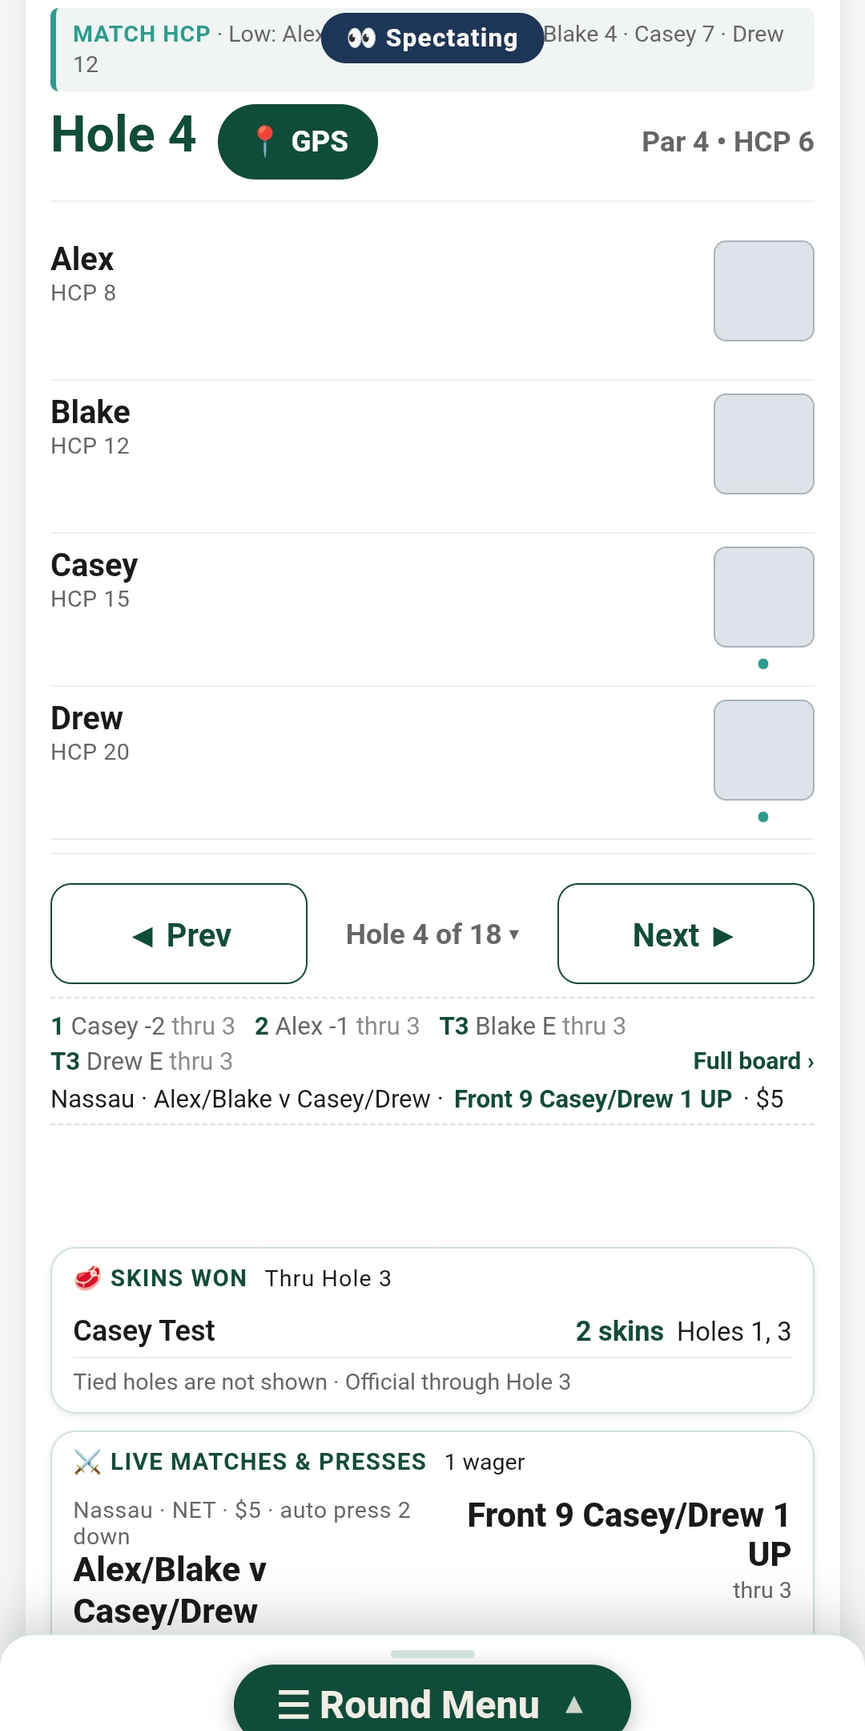
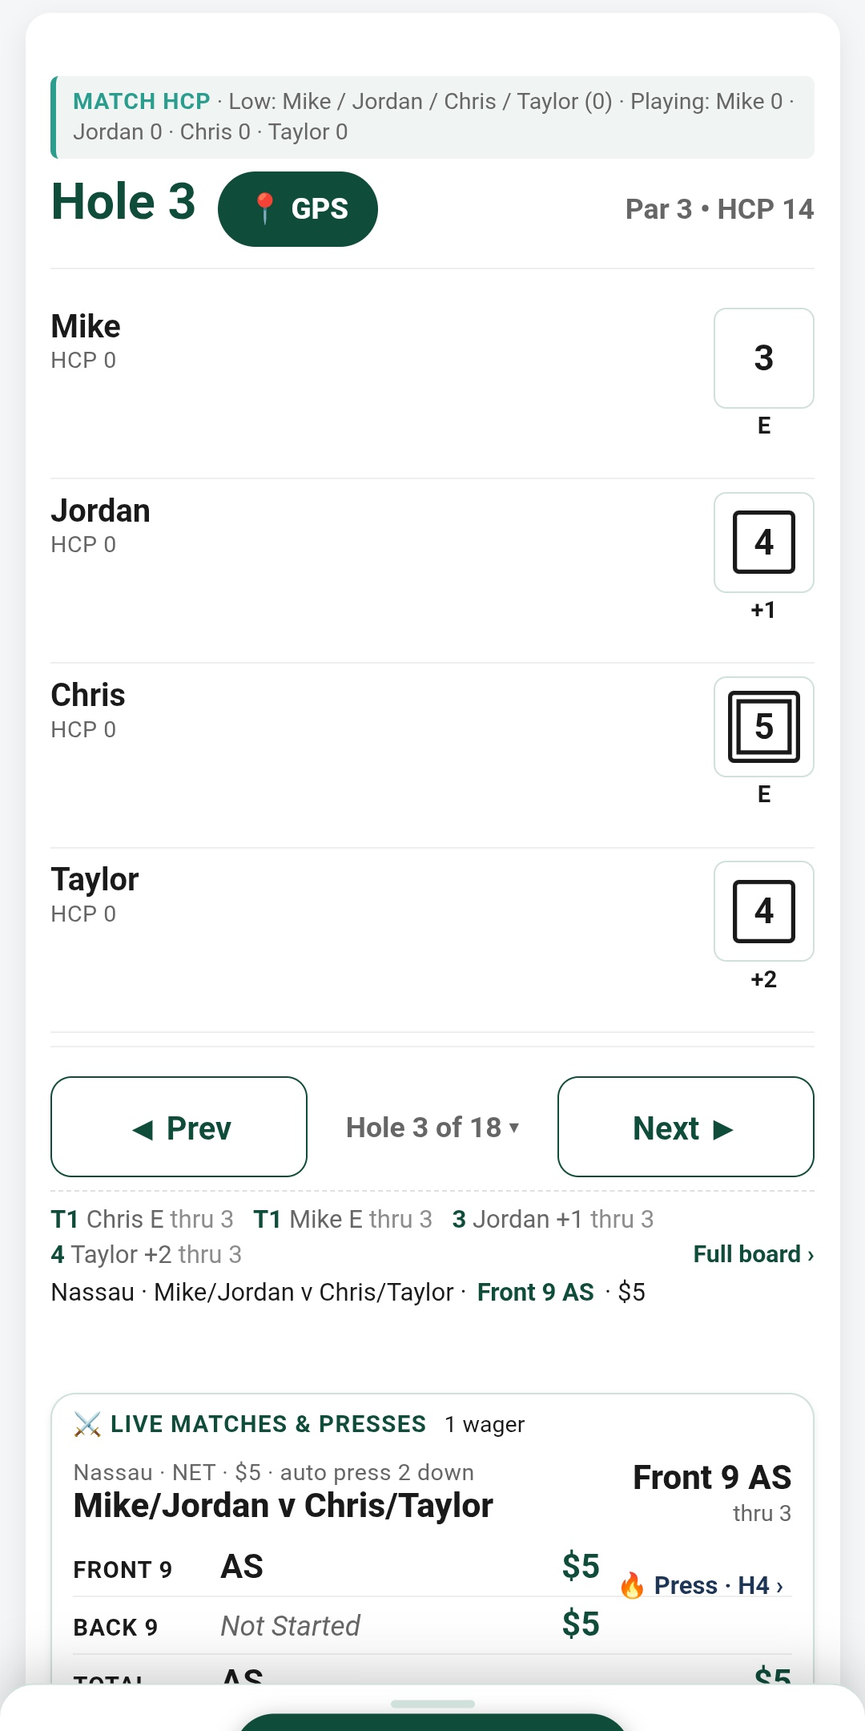
Job 011: legal pages deploy-ready, screenshots without test data, players-first loop measured
- Deletion page: "We'll reply within 7 days and delete within 30 days." Privacy keeps
  "an important change is shown in the app". Deploy-ready copies, dated 17 October 2026,
  in docs/legal/deploy/ (privacy.html, delete-account.html). Not deployed.
- Screenshots 03, 04, 05, 08 reshot from screenshot round LX83Z6 (no demo/test round),
  1080x2160 JPEG. LX83Z6 then deleted in-app; the app answers "No round with the code".
- Players-first loop reproduced in desktop Chrome with no Capacitor
  (docs/repro/players-first-loop.js): it needs a stale 1-golfer stored copy AND live data
  slower than the first 150 ms tick. Written up for the iOS session, not fixed (shared code).

Docs and assets only; no app code, no cache bump.

(cherry picked from commit dcf30ce82ed94d24f578836525e57e4b52626caf)

diff --git a/docs/legal/deploy/privacy.html b/docs/legal/deploy/privacy.html
@@ -1,0 +1,104 @@
+<!DOCTYPE html>
+<html lang="en">
+<head>
+<meta charset="UTF-8">
+<meta name="viewport" content="width=device-width, initial-scale=1.0">
+<title>Privacy Policy — HardPan</title>
+<style>
+    :root { --forest: #0E2B1F; --lime: #93C01F; --cream: #F6F4EC; --ink: #1a1a1a; --muted: #5a6560; --line: #d8d5c8; }
+    * { box-sizing: border-box; }
+    body { font-family: -apple-system, BlinkMacSystemFont, "Segoe UI", Roboto, sans-serif;
+        background: var(--cream); color: var(--ink); margin: 0; padding: 24px 16px 64px 16px; line-height: 1.6; }
+    .wrap { max-width: 720px; margin: 0 auto; }
+    h1 { font-size: 1.45rem; color: var(--forest); margin: 28px 0 6px 0; }
+    h2 { font-size: 1.05rem; color: var(--forest); margin: 30px 0 8px 0; padding-bottom: 6px; border-bottom: 1px solid var(--line); }
+    .updated { color: var(--muted); font-size: 0.85rem; margin-bottom: 8px; }
+    p, li { font-size: 0.95rem; }
+    ul { padding-left: 20px; }
+    li { margin-bottom: 6px; }
+    .callout { background: #fff; border-left: 4px solid var(--lime); border-radius: 6px; padding: 14px 16px; margin: 18px 0; }
+    table { width: 100%; border-collapse: collapse; margin: 14px 0; font-size: 0.9rem; }
+    th { background: var(--forest); color: var(--cream); text-align: left; padding: 8px 10px; }
+    td { border-bottom: 1px solid var(--line); padding: 8px 10px; vertical-align: top; background: #fff; }
+    a { color: var(--forest); }
+    footer { margin-top: 40px; padding-top: 16px; border-top: 1px solid var(--line); text-align: center; color: var(--muted); font-size: 0.85rem; }
+</style>
+</head>
+<body>
+<div class="wrap">
+<h1>HardPan Privacy Policy</h1>
+<p class="updated">Last updated: 17 October 2026 · Rattle Golf LLC</p>
+
+<div class="callout">
+<p><strong>The short version.</strong> HardPan keeps your group's golf: names, scores and the games you play. It makes you an anonymous account so the rounds you start stay yours. An email address is asked for only if you choose to sign in. Your GPS position is used on your phone to measure yardages and is not sent to us, with one exception you control (setting a green, below). No ads, no analytics, no tracking, and nothing is sold.</p>
+</div>
+
+<h2>Who we are</h2>
+<p>HardPan is made by Rattle Golf LLC. Questions or requests: <a href="mailto:support@rattlegolf.com">support@rattlegolf.com</a>.</p>
+
+<h2>What we collect, and why</h2>
+<table>
+<tr><th>What</th><th>When</th><th>Why</th></tr>
+<tr><td>An anonymous account id</td><td>Automatically, the first time you open the app or site</td><td>So the rounds and groups you set up belong to you, and to limit how many course lookups one account can make in a day. It has no name or email on it.</td></tr>
+<tr><td>Your email address</td><td>Only if you choose to sign in with an email link (on iPhone you may also use Sign in with Apple or Google)</td><td>So you can keep your rounds and groups across devices. Firebase (Google) sends the sign-in email for us.</td></tr>
+<tr><td>Golfers' names, handicaps, scores and games</td><td>When you or your group type them in</td><td>To run the scorecard, leaderboard and games for everyone with the round's code.</td></tr>
+<tr><td>A green's position</td><td>Only when you tap "set the green here" on the GPS screen</td><td>To fix that hole's green for your round. The saved point carries no account id and no name.</td></tr>
+<tr><td>Course searches</td><td>When you search for a course to play</td><td>Sent through our server to our course-data provider to answer the search. Not kept with your account.</td></tr>
+</table>
+
+<h2>Your location</h2>
+<ul>
+<li>HardPan asks for location only to show yardages on the GPS screen, and only while the app is open. It never asks for background location.</li>
+<li>Your position stays on your phone. It turns into yardages on the screen and is not sent to us, stored in your account, or put in a link.</li>
+<li>The one exception is "set the green here": that saves the spot you are standing on as the green, without your name or account.</li>
+<li>"Near you" (nearby courses) is worked out on your phone.</li>
+<li>You can switch location off at any time in your phone's settings. Scores, games and the scorecard work without it.</li>
+</ul>
+
+<h2>Services that help run HardPan</h2>
+<p>These receive only what they need to do their job, and none of them receive anything to track you:</p>
+<ul>
+<li><strong>Google Firebase</strong> (Authentication, Realtime Database, Cloud Functions): your account, round data and course searches. Google processes it for us as a service provider.</li>
+<li><strong>GolfAPI</strong> (golfapi.io), through our server: the course name you search for and course ids. Never your position or name.</li>
+<li><strong>GolfCourseAPI</strong> (golfcourseapi.com), through our Cloudflare Worker: the course name or town you type, to find a published scorecard. Never your position or name.</li>
+<li><strong>Esri (ArcGIS)</strong> and the <strong>U.S. Geological Survey</strong> (USGS): the satellite map on the GPS screen. Your phone asks them for map tiles of the course, and they see that request and your internet address. USGS also gives heights for points on the course (for "plays like").</li>
+<li><strong>U.S. National Weather Service</strong> (api.weather.gov): the wind. Your phone sends the course's location, not yours, and the service sees your internet address.</li>
+<li><strong>Apple</strong>, on iPhone only: Sign in with Apple if you use it, and push notifications if you allow them (your device's notification token and your notification choices are stored so a round can notify you).</li>
+</ul>
+
+<h2>What we don't do</h2>
+<ul>
+<li>No ads, and no advertising or analytics SDKs.</li>
+<li>No selling or renting of your information, and no sharing for anyone's advertising.</li>
+<li>No purchases in the app today. HardPan does not take, hold or move money; the "who owes whom" summary is information for your group, who settle up between themselves.</li>
+</ul>
+
+<h2>Kept on your device only</h2>
+<p>Dark mode, your last roster, recent rounds and courses, which golfer is you, downloaded course maps and any scores waiting for a signal are kept on your phone (or in your browser) and are not sent to us, except that waiting scores are sent to the round once you're back online.</p>
+
+<h2>Who can see a round</h2>
+<p>A round is shared by its game code. Anyone with the code can watch it, and the people you give a scorekeeper link can score it. There is no public list of rounds and no public profile.</p>
+
+<h2>How long we keep it</h2>
+<p>Rounds are kept so your group can look back at them, until the organizer wipes the round or asks us to. Your account is kept until you delete it.</p>
+
+<h2>Deleting your data</h2>
+<ul>
+<li><strong>Your account:</strong> in the app, open Account and tap Delete account. That deletes your sign-in (email and account id) and your saved groups straight away. See <a href="delete-account.html">delete-account</a> for exactly what is deleted and what stays.</li>
+<li><strong>A round:</strong> the organizer can use End &amp; Wipe Round.</li>
+<li><strong>Anything else, or if you can't open the app:</strong> email <a href="mailto:support@rattlegolf.com">support@rattlegolf.com</a> from the address you signed in with (or with the round code).</li>
+</ul>
+
+<h2>Children</h2>
+<p>HardPan is not directed at children under 13 and does not knowingly collect information from them. If you think a child's information is in HardPan, email us and we will delete it.</p>
+
+<h2>Security</h2>
+<p>Everything is sent over encrypted connections (HTTPS). Database rules let only the right people change a round or an account.</p>
+
+<h2>Changes</h2>
+<p>If this policy changes, the date at the top changes, and an important change is shown in the app.</p>
+
+<footer>Rattle Golf LLC · <a href="mailto:support@rattlegolf.com">support@rattlegolf.com</a></footer>
+</div>
+</body>
+</html>

diff --git a/docs/legal/deploy/delete-account.html b/docs/legal/deploy/delete-account.html
@@ -1,0 +1,59 @@
+<!DOCTYPE html>
+<html lang="en">
+<head>
+<meta charset="UTF-8">
+<meta name="viewport" content="width=device-width, initial-scale=1.0">
+<title>Delete your HardPan account</title>
+<style>
+    :root { --forest: #0E2B1F; --lime: #93C01F; --cream: #F6F4EC; --ink: #1a1a1a; --muted: #5a6560; --line: #d8d5c8; }
+    * { box-sizing: border-box; }
+    body { font-family: -apple-system, BlinkMacSystemFont, "Segoe UI", Roboto, sans-serif;
+        background: var(--cream); color: var(--ink); margin: 0; padding: 24px 16px 64px 16px; line-height: 1.6; }
+    .wrap { max-width: 720px; margin: 0 auto; }
+    h1 { font-size: 1.45rem; color: var(--forest); margin: 28px 0 6px 0; }
+    h2 { font-size: 1.05rem; color: var(--forest); margin: 30px 0 8px 0; padding-bottom: 6px; border-bottom: 1px solid var(--line); }
+    p, li { font-size: 0.95rem; }
+    ol, ul { padding-left: 20px; }
+    li { margin-bottom: 6px; }
+    .callout { background: #fff; border-left: 4px solid var(--lime); border-radius: 6px; padding: 14px 16px; margin: 18px 0; }
+    a { color: var(--forest); }
+    footer { margin-top: 40px; padding-top: 16px; border-top: 1px solid var(--line); text-align: center; color: var(--muted); font-size: 0.85rem; }
+</style>
+</head>
+<body>
+<div class="wrap">
+<h1>Delete your HardPan account</h1>
+<p>HardPan is made by Rattle Golf LLC. You can delete your account in the app, or ask us by email.</p>
+
+<h2>In the app (immediate)</h2>
+<ol>
+<li>Open HardPan and tap <strong>Sign in</strong> (or <strong>Account</strong>) on the home screen.</li>
+<li>Tap <strong>Delete account</strong>. It appears once you are signed in.</li>
+<li>Read the warning and tap <strong>Delete account</strong> again to confirm.</li>
+</ol>
+<p>You need a signal: if a step can't reach our servers, nothing is deleted and the app asks you to try again.</p>
+
+<h2>By email</h2>
+<p>If you can't open the app, email <a href="mailto:support@rattlegolf.com?subject=Delete%20my%20HardPan%20account">support@rattlegolf.com</a> from the address you signed in with, with the subject <strong>"Delete my HardPan account"</strong>. We'll reply within 7 days and delete within 30 days.</p>
+
+<h2>What is deleted</h2>
+<ul>
+<li>Your sign-in: your email address and your account id.</li>
+<li>Your saved groups (My Groups), and the co-organizer links those groups gave other people.</li>
+<li>On iPhone: your notification token and notification choices.</li>
+</ul>
+
+<h2>What stays</h2>
+<ul>
+<li><strong>Rounds.</strong> A round belongs to everyone who played it, so it is not deleted with your account: the scores stay under its game code, for the golfers who have it. An organizer can erase a round with End &amp; Wipe Round, or email us its code.</li>
+<li><strong>Two small records with your old account id</strong>: the date you were first seen and, if you had one, a founder pass. They hold no name or email, and nobody can read them once the account is gone.</li>
+<li><strong>A daily count of course lookups</strong> made by your old account id (used to limit lookups). It holds no name or email.</li>
+<li><strong>Green positions</strong> you set while playing. They never carried your name or account.</li>
+</ul>
+
+<div class="callout"><p>Signing out is not the same as deleting: it only ends the session on that device, and your account stays.</p></div>
+
+<footer>Rattle Golf LLC · <a href="mailto:support@rattlegolf.com">support@rattlegolf.com</a> · <a href="privacy.html">Privacy Policy</a></footer>
+</div>
+</body>
+</html>

diff --git a/docs/repro/players-first-loop.js b/docs/repro/players-first-loop.js
@@ -1,0 +1,29 @@
+// Run from the repo root: node docs/repro/players-first-loop.js  (job 011, 2026-10-17). Diagnostic only, not part of the suite.
+// Players-first loop, desktop Chrome (iOS-like: no Capacitor, front door on via the flag).
+// Arrives cold at the URL afterSave() sends a golfer to, touches nothing. Only the data source
+// and its timing are set: the stub's live snapshot is held back DELAY ms (a real network).
+const path = require('path'); const HERE = path.join(__dirname, '..', '..');
+const { arriveCold, fileUrl } = require(path.join(HERE, 'tools/lib/cold-arrival.js'));
+const { wizardSavedRound } = require(path.join(HERE, 'helpers/wizard-saved-round.js'));
+const NAMES = ['Ann Able', 'Bob Baker', 'Cal Cole', 'Dee Dunn'];
+const mk = (n) => { const r = wizardSavedRound({ code: 'PFLOOP', golfers: n, names: NAMES.slice(0, n), hcps: [9, 12, 5, 20].slice(0, n), ownerUid: 'anon-cold', thru: 0, flights: false,
+    overrides: { additionalGames: {}, activeCourseKey: 'caledonia', courseName: 'Caledonia Golf & Fish Club' } }); delete r.moneyPool; delete r.kpWinners; delete r.kpConfirmed; return r; };
+const DB = { events: { PFLOOP: mk(4) }, global_courses: {}, trips: {}, organizers: {}, tournaments: {} };
+const arm = (snapN, delay) => {
+    const nx = { code: 'PFLOOP', id: 'vegas', name: 'Vegas', need: 4, stage: 'game', at: Date.now() };
+    let pre = 'window.__hardpanDoors = true; window.__freshPhone = true;'
+        + "sessionStorage.setItem('hardpan_ag_next', " + JSON.stringify(JSON.stringify(nx)) + ");";
+    if (snapN) pre += "localStorage.setItem('golfapp_snap_v1_PFLOOP', " + JSON.stringify(JSON.stringify({ data: mk(snapN), at: Date.now() })) + ");";
+    if (delay) pre += "(function(){var st=window.setTimeout;window.setTimeout=function(f,ms){if(!ms&&typeof f==='function'&&String(f).indexOf('resolve()')!==-1)ms=" + delay + ";return st.apply(this,[f,ms].concat([].slice.call(arguments,2)));};})();";
+    return pre;
+};
+const OUT = "JSON.stringify({ url: document.URL.split('/').pop(), players: (typeof currentData!=='undefined'&&currentData&&currentData.players||[]).filter(p=>p&&p.name).length, need: !!document.getElementById('fd-need'), next: sessionStorage.getItem('hardpan_ag_next') })";
+(async () => {
+    const res = {};
+    for (const [k, snapN, delay] of [['A stale 1-golfer copy, live 1500ms', 1, 1500], ['B no stored copy, live 1500ms', 0, 1500], ['C stale 1-golfer copy, live instant', 1, 0], ['D current 4-golfer copy, live 1500ms', 4, 1500]]) {
+        const r = await arriveCold({ url: fileUrl('index.html', 'game=PFLOOP&agq=vegas'), db: DB, preScript: arm(snapN, delay), settleMs: 500, viewport: { width: 390, height: 844 },
+            steps: [{ sleep: 4000 }, { expression: OUT }] });
+        res[k] = r.ok ? r.value.filter(v => typeof v === 'string' && v[0] === '{').map(JSON.parse).pop() : 'harness: ' + r.reason;
+    }
+    console.log(JSON.stringify(res, null, 1));
+})();

diff --git a/docs/legal/delete-account-DRAFT.html b/docs/legal/delete-account-DRAFT.html
@@ -4,7 +4,7 @@
      runs today: the accountDelete Cloud Function is NOT deployed (live answers 404), so the
      app falls back to the client delete. The stage-2 delete rule is NOT live (Manny's console check, mailbox 007,
      2026-10-17): organizers/$uid has no .write, so firstSeenAt and pass stay - the page says so. The email-request
-     timeframe ("reply within 7 days, delete within 30") is from job 006: MANNY TO CONFIRM BEFORE DEPLOY. -->
+     timeframe is Manny's wording (job 011, approved 2026-10-17). -->
 <html lang="en">
 <head>
 <meta charset="UTF-8">
@@ -40,7 +40,7 @@
 <p>You need a signal: if a step can't reach our servers, nothing is deleted and the app asks you to try again.</p>
 
 <h2>By email</h2>
-<p>If you can't open the app, email <a href="mailto:support@rattlegolf.com?subject=Delete%20my%20HardPan%20account">support@rattlegolf.com</a> from the address you signed in with, with the subject <strong>"Delete my HardPan account"</strong>. We reply within 7 days and delete the account within 30 days.</p>
+<p>If you can't open the app, email <a href="mailto:support@rattlegolf.com?subject=Delete%20my%20HardPan%20account">support@rattlegolf.com</a> from the address you signed in with, with the subject <strong>"Delete my HardPan account"</strong>. We'll reply within 7 days and delete within 30 days.</p>
 
 <h2>What is deleted</h2>
 <ul>

diff --git a/docs/legal/privacy-policy-DRAFT.html b/docs/legal/privacy-policy-DRAFT.html
@@ -100,7 +100,7 @@
 <p>Everything is sent over encrypted connections (HTTPS). Database rules let only the right people change a round or an account.</p>
 
 <h2>Changes</h2>
-<p>When this policy changes, the date at the top changes.</p>
+<p>If this policy changes, the date at the top changes, and an important change is shown in the app.</p>
 
 <footer>Rattle Golf LLC · <a href="mailto:support@rattlegolf.com">support@rattlegolf.com</a></footer>
 </div>

diff --git a/docs/PLAY-SUBMISSION.md b/docs/PLAY-SUBMISSION.md
@@ -18,7 +18,7 @@ Ground rules for this first release (Manny, 2026-10-17):
 | G2 | **No account-deletion web page.** golf-app-5a5.pages.dev/delete-account.html is a catch-all that serves the scorecard. rattlegolf.com has no website (mail records only). | Play requires a public URL where a user can ask for account and data deletion without installing the app. | Manny: approve the text in §5; then host it |
 | G3 | ~~Organizer locked out of their own round's setup on Android~~. **Fixed in 0.2 (5)** (job 003): `auth-boot.js` tries again after `load` on Android. On the emulator, Vegas with one golfer now opens the Players step for the round's creator. | — | Done |
 | G4 | **Server account deletion (`accountDelete`) is not deployed.** Live, it answers 404. | In-app Delete account still works: the client-side delete runs when the function is missing. Data left behind that way: anything the client may not remove (see §5). The Data safety "deletion" answer must match what really happens. | Manny: deploy or accept |
-| G5 | **Screenshots.** The 10 in `~/Desktop/HardPan-screenshots-v2/final-10` are iPhone (1320×2868, 2.17:1). Play's limit is 2:1, and they show iOS. | They are rejected at upload. | Done: 8 Android shots on a clean 0.2 (5) install with the 5RZ8GE demo round, in `docs/play-assets/screenshots/` (1080×2160). The demo round's "Test" names and "App Review demo (TEST round)" title show in 06–07 (§6). |
+| G5 | **Screenshots.** The 10 in `~/Desktop/HardPan-screenshots-v2/final-10` are iPhone (1320×2868, 2.17:1). Play's limit is 2:1, and they show iOS. | They are rejected at upload. | Done: 8 Android shots on a clean 0.2 (5) install with the 5RZ8GE demo round, in `docs/play-assets/screenshots/` (1080×2160). No test data in any of the 8 (job 011). |
 | G6 | **"Trial" and "founder pass" words inside the app.** The Account sheet on Android says "the free trial and a founder pass stay with the rounds already set up on it". | The listing says GPS is included, and nothing can be bought on Android. In-app copy that promises a trial is misleading. | Listed for the iOS session (`docs/FOR-IOS-SESSION.md` #5) |
 | G7 | **Money-game wording and the gambling policy.** The app records friendly side games (Nassau, skins, Vegas, BBB) and shows who owes whom. It never takes, holds or moves money (confirmed in code, §3). The Vegas row uses a 🎲 icon. | Reviewers can read "bets / who pays who" as gambling. Keep the listing on "side games" and "settle up between yourselves", target 18+, and answer IARC as in §3. Swap the 🎲 icon (`docs/FOR-IOS-SESSION.md` #6). | Manny (icon via the iOS session) |
 | G8 | **Shared bugs a reviewer could meet**: a GPS READY course that "cannot start" (Talking Stick South), "No rated tees" when tees exist, "&" dropped in the trip builder. | They look broken in review. The review path in §4 avoids them. | iOS session (`docs/FOR-IOS-SESSION.md`) |
@@ -203,8 +203,8 @@ Check G4 before publishing the "we delete" list. Without the server function, so
 | Phone screenshots | JPEG or 24-bit PNG, no alpha; sides 320–3840 px; long side ≤ 2× short side; at least 2, up to 8 | **8 drafts**: `docs/play-assets/screenshots/`, all 1080×2160 JPEG (2:1, no alpha), from the Android emulator, cropped below the status bar |
 | iPhone set (`final-10`) | — | **Not usable**: 1320×2868 = 2.17:1, and iOS chrome |
 
-Screenshots (clean install, 0.2 (5), demo round 5RZ8GE): 01 Home, 02 Near you (Caledonia), 03 GPS hole 4 (151 to centre), 04 GPS near the green (41), 05 scorecard (Alex / Blake / Casey / Drew), 06 full leaderboard, 07 Results (settle summary), 08 Share with QR.
-06 and 07 were reshot (job 006) from a separate screenshot round, **LX83Z6** ("GPS round" at Caledonia: Mike, Jordan, Chris, Taylor; a $5 Nassau; 3 holes scored). The App Review round 5RZ8GE is untouched.
+Screenshots (0.2 (7) on the emulator): 01 Home, 02 Near you (Caledonia), 03 GPS hole 1 (145 to centre), 04 GPS hole 1 near the green (48), 05 scorecard (Mike / Jordan / Chris / Taylor), 06 full leaderboard, 07 Results (settle summary), 08 Share with QR (code LX83Z6).
+03-08 come from one screenshot round, **LX83Z6** ("GPS round" at Caledonia: Mike, Jordan, Chris, Taylor; a $5 Nassau; 3 holes scored). Job 011 reshot 03, 04, 05 and 08, because they showed the App Review demo round 5RZ8GE ("Spectating", test golfers). LX83Z6 was **deleted** afterwards (in-app "Delete round for everyone"; the app now answers "No round with the code LX83Z6"). 01 and 02 show no round. The App Review round 5RZ8GE is untouched.
 
 ---
 

diff --git a/docs/FOR-IOS-SESSION.md b/docs/FOR-IOS-SESSION.md
@@ -63,7 +63,17 @@ were reproduced on an iPhone.
    - **The bounce.** On the scorecard, `front-door.js` ~L1049-1058 waits only for `agPlayers().length` (**any** golfer), then calls `agQuick(agq)`.
      `agQuick` → `agPlayersFirst(tpl)` counts `currentData.players` again, and at that moment `currentData` is the phone's **stored copy** of the round, `golfapp_snap_v1_LX83Z6`, saved before the golfers were added.
      Measured: stored copy **1** golfer, live round **4**. So 1 < 4 sends the golfer back to Players, and `agNext` is reset to `stage: 'players'`. It loops.
-   - **Shared:** the same `front-door.js` and the same offline snapshot ship in the iOS GPS build. Whether iOS hits it depends only on whether the stored copy draws before the live data, which is likely there too.
+   - **Shared:** the same `front-door.js` and the same offline snapshot ship in the iOS GPS build.
+   - **Reproduced in desktop Chrome, no Capacitor (job 011).** `docs/repro/players-first-loop.js` arrives cold at `index.html?game=PFLOOP&agq=vegas` on the cold-arrival harness (stubbed Firebase, nothing live) and touches nothing. Live round 4 golfers, `hardpan_ag_next` at `stage: 'game'`:
+     | Stored copy | Live data arrives | Lands on |
+     |---|---|---|
+     | 1 golfer | after 1500 ms | `admin.html?game=PFLOOP&step=players`: **the loop** |
+     | none | after 1500 ms | `index.html?game=PFLOOP`, 4 golfers |
+     | 1 golfer | at once | `index.html?game=PFLOOP`, 4 golfers |
+     | 4 golfers | after 1500 ms | `index.html?game=PFLOOP`, 4 golfers |
+     So it is not Android. It takes both a stale stored copy **and** a live round slower than the first 150 ms tick. A real phone on a course has both, because the stored copy is always the one from before Players was opened. **Expect it on iPhone on Monday** if the round is started from the GPS door with one golfer and a 4-golfer game is picked.
+     - The 1500 ms is my stand-in for a network, not a measurement of one.
+     - Likely workaround for Monday (reasoned from the last row, not measured on a phone): add the golfers first, let the scorecard load them, then pick the game.
    - **Fix options for the iOS session** (not done here):
      - wait for `agPlayers().length >= agNeed(agq)` (still capped at 80 ticks) instead of `length`; or
      - skip the players-first check once `nx.stage === 'game'` (the golfers were just saved); or

diff --git a/docs/legal/privacy-DIFF.md b/docs/legal/privacy-DIFF.md
@@ -31,5 +31,5 @@ Add these back when they ship.
 
 ## Open points for Manny
 1. Publishing date and who signs off.
-2. Resolved (job 006): retention wording kept as drafted.
-3. Resolved (job 006): dropped. The draft now says only that the date at the top changes when the policy changes.
+2. Resolved (job 011): no time limit; "kept until the organizer wipes the round or asks us to".
+3. Resolved (job 011): kept. "If this policy changes, the date at the top changes, and an important change is shown in the app."
